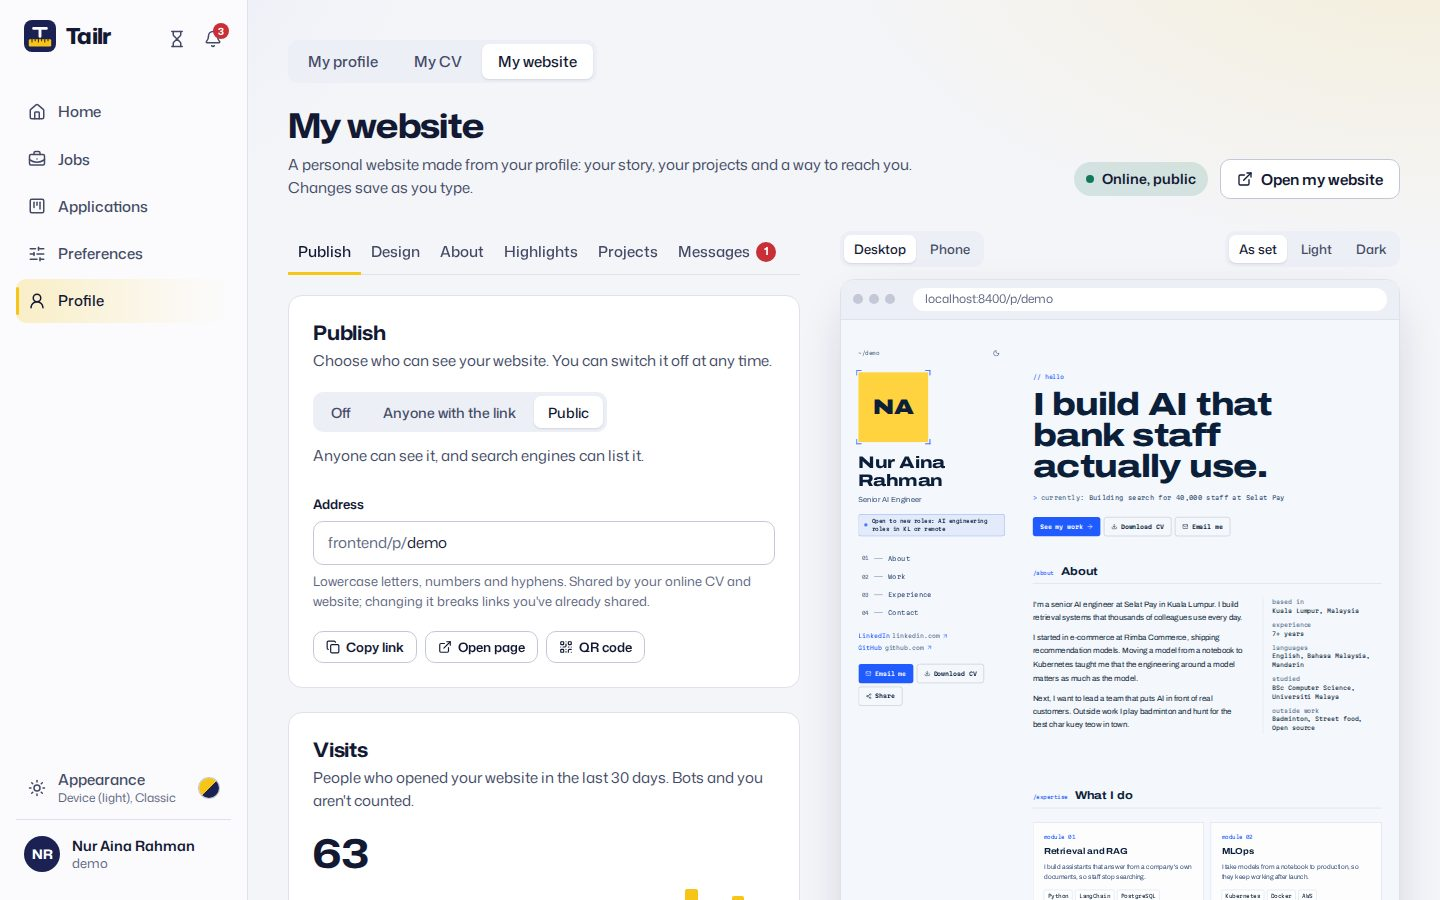
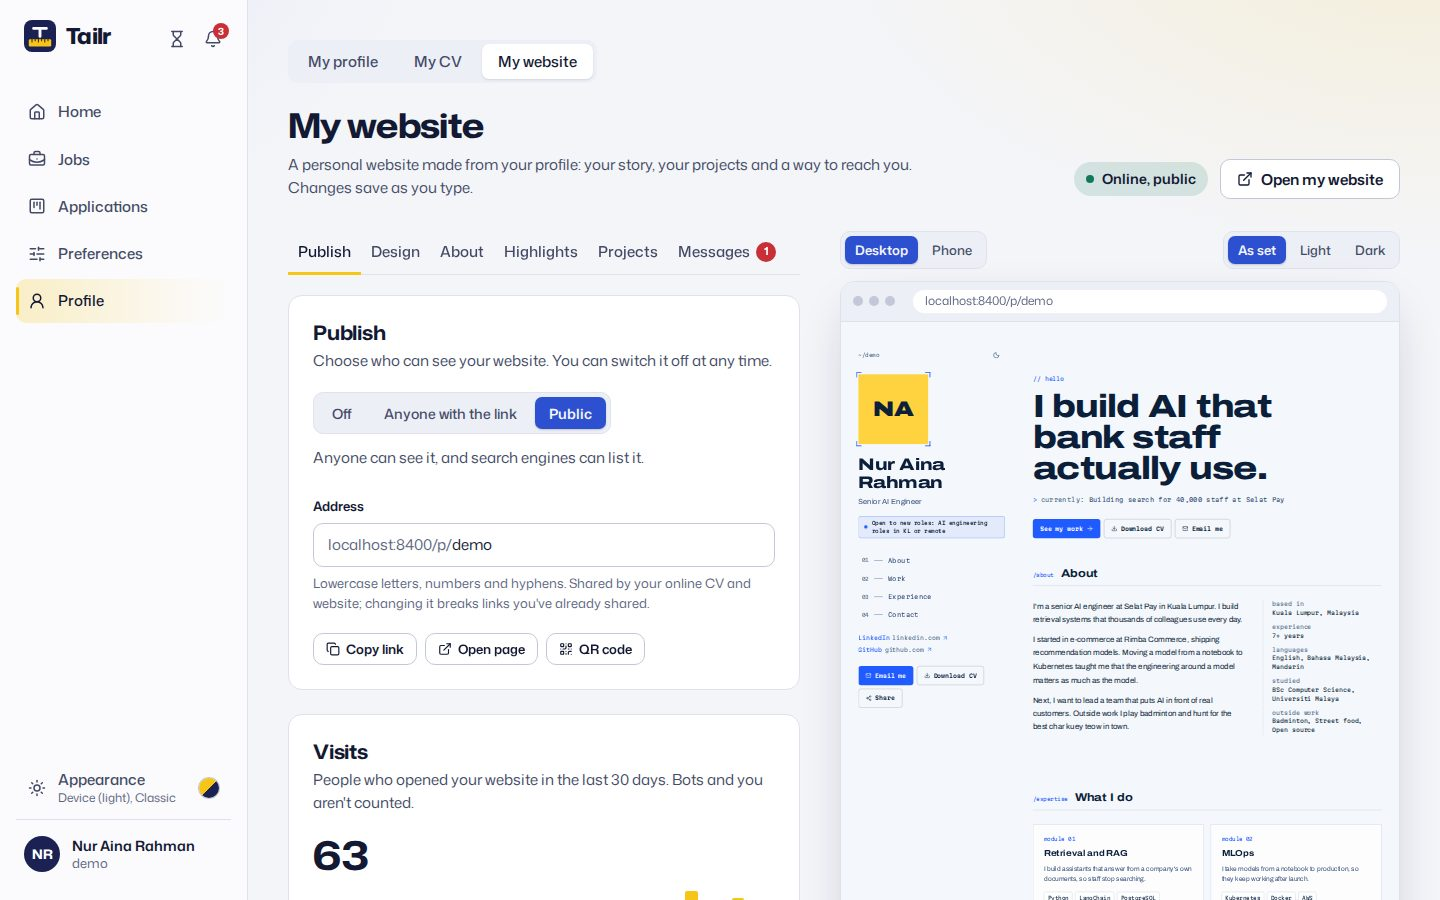
fix: make the picked option obvious in every switch, in dark too
The shared switch (Write it in: English / Bahasa Malaysia, and eleven others)
marked the pick with a surface-coloured pill that in dark mode was darker than
its track, so both options looked the same. The pick is now a filled pill in
the palette's accent (5.4:1 or more in every palette and theme), the track has
an outline, and other options brighten on hover.

Also: the address field on My website and My CV shows the public address
(PUBLIC_WEB_URL), the same as Copy link, not whichever host the tab uses.

Claude-Session: https://claude.ai/code/session_014ZhetTDyjgW11abRP9bkkE

diff --git a/frontend/src/features/public-page/components/PublishPanel.tsx b/frontend/src/features/public-page/components/PublishPanel.tsx
@@ -71,6 +71,7 @@ export function PublishPanel({ draft, saved, update }: Props) {
       <AddressField
         path="p"
         current={draft.slug}
+        url={pageUrl}
         onSave={(slug) => update((d) => ({ ...d, slug }))}
       />
 
@@ -109,14 +110,27 @@ type Check =
   | { state: "bad"; reason: string };
 
 /** tailr.app/<path>/<address>, checked as you type; saved only when it's free. */
+/** The host people will see in the link (PUBLIC_WEB_URL), not whichever host this tab uses. */
+function hostOf(url: string | undefined): string {
+  try {
+    if (url) return new URL(url).host;
+  } catch {
+    // not a full address: fall back to this tab's host
+  }
+  return typeof window === "undefined" ? "" : window.location.host;
+}
+
 export function AddressField({
   path,
   current,
+  url,
   onSave,
 }: {
   /** "cv" or "p": the page's place in the address. */
   path: string;
   current: string;
+  /** The page's shareable address from the server, for the host shown before the slug. */
+  url?: string;
   onSave: (slug: string) => void;
 }) {
   const [value, setValue] = useState(current);
@@ -153,7 +167,7 @@ export function AddressField({
     return () => window.clearTimeout(timer);
   }, [value, changed]);
 
-  const origin = typeof window === "undefined" ? "" : window.location.host;
+  const origin = hostOf(url);
   return (
     <div className="mt-6">
       <label htmlFor="page-address" className="type-label">

diff --git a/frontend/src/components/ui/choice.tsx b/frontend/src/components/ui/choice.tsx
@@ -242,7 +242,7 @@ export function Segmented<T extends string>({
     <div
       role="radiogroup"
       aria-label={label}
-      className="inline-flex flex-wrap gap-1 rounded-control bg-surface-2 p-1"
+      className="inline-flex flex-wrap gap-1 rounded-control border border-line bg-surface-2 p-1"
     >
       {options.map((option, index) => {
         const on = option.value === value;
@@ -261,9 +261,11 @@ export function Segmented<T extends string>({
               size === "sm"
                 ? "h-7 px-2.5 text-[0.8125rem]"
                 : "h-8 px-3.5 text-[0.875rem]",
+              // The pick is a filled pill in the accent, so it reads at once in light and
+              // dark (5.4:1 or more in every palette).
               on
-                ? "bg-surface text-ink shadow-[0_1px_2px_rgb(20_33_61/0.12)]"
-                : "text-ink-2 hover:text-ink",
+                ? "bg-chalk font-semibold text-canvas shadow-[0_1px_2px_rgb(0_0_0/0.18)]"
+                : "text-ink-2 hover:bg-surface hover:text-ink",
             )}
           >
             {option.label}

diff --git a/frontend/src/features/cv/components/SharePanel.tsx b/frontend/src/features/cv/components/SharePanel.tsx
@@ -51,6 +51,7 @@ export function SharePanel({
         <AddressField
           path="cv"
           current={identity.data.slug}
+          url={cv.url}
           onSave={(slug) => {
             if (!identity.data) return;
             saveIdentity.mutate(
